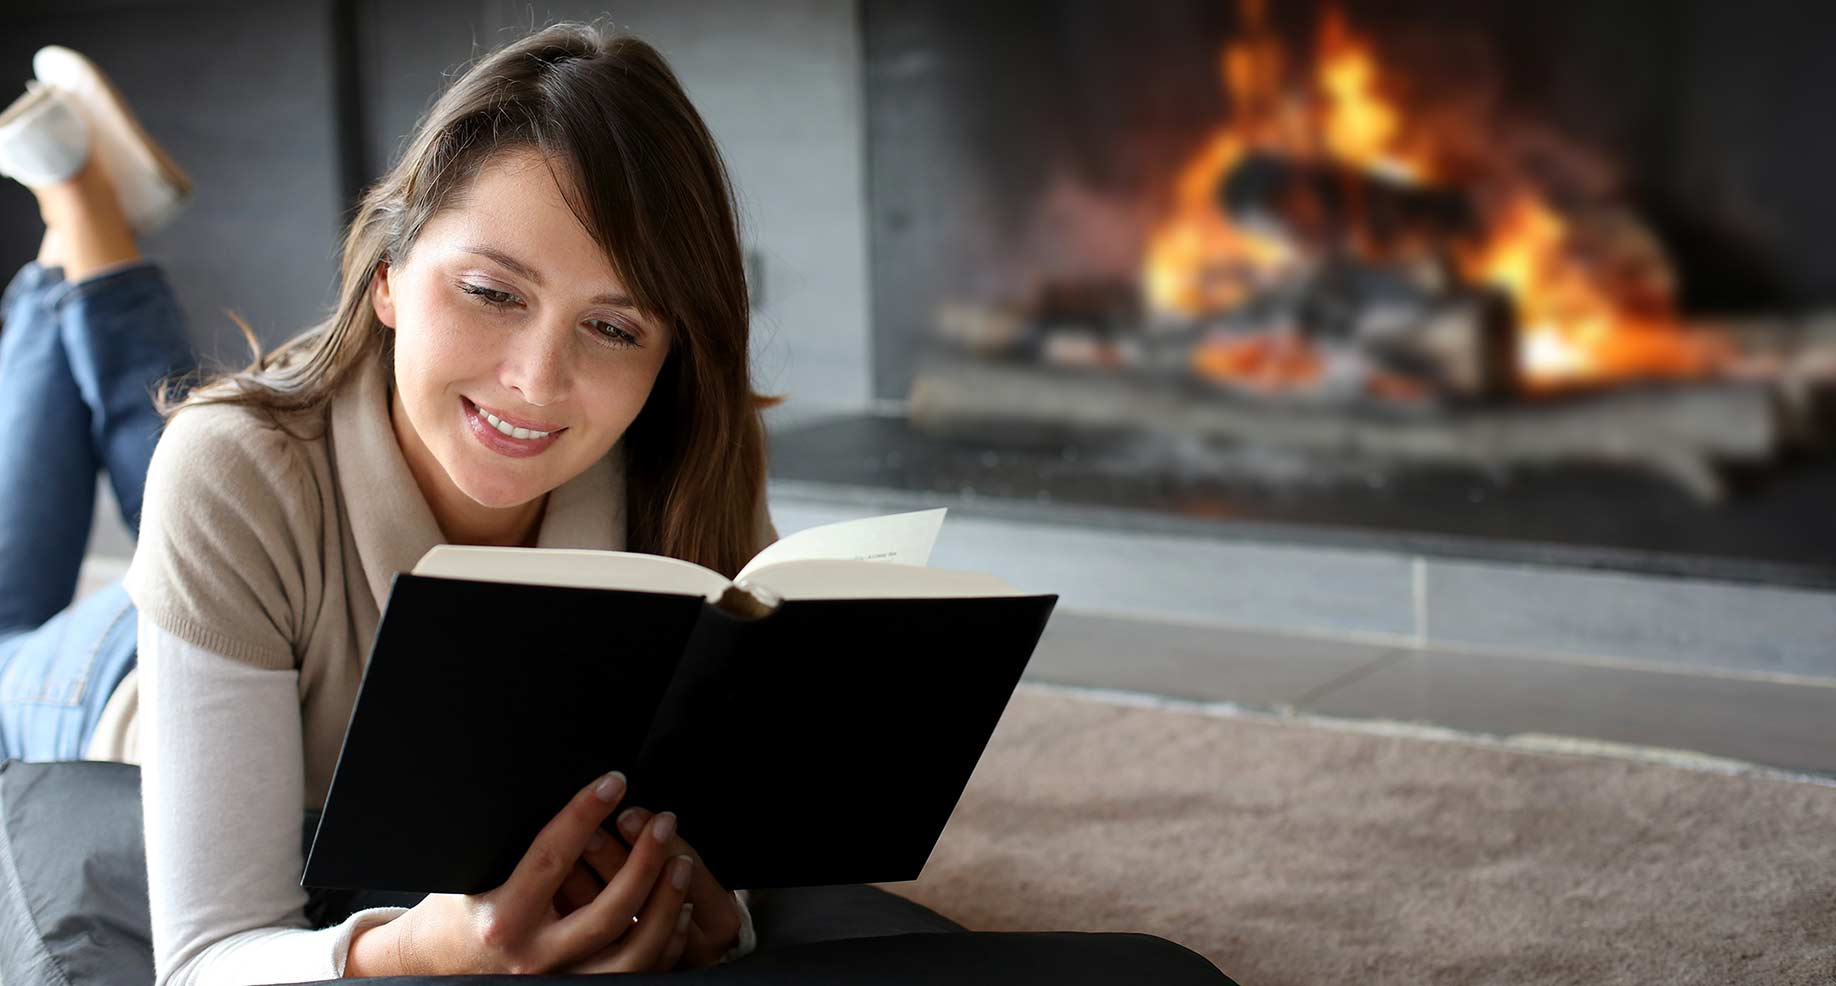
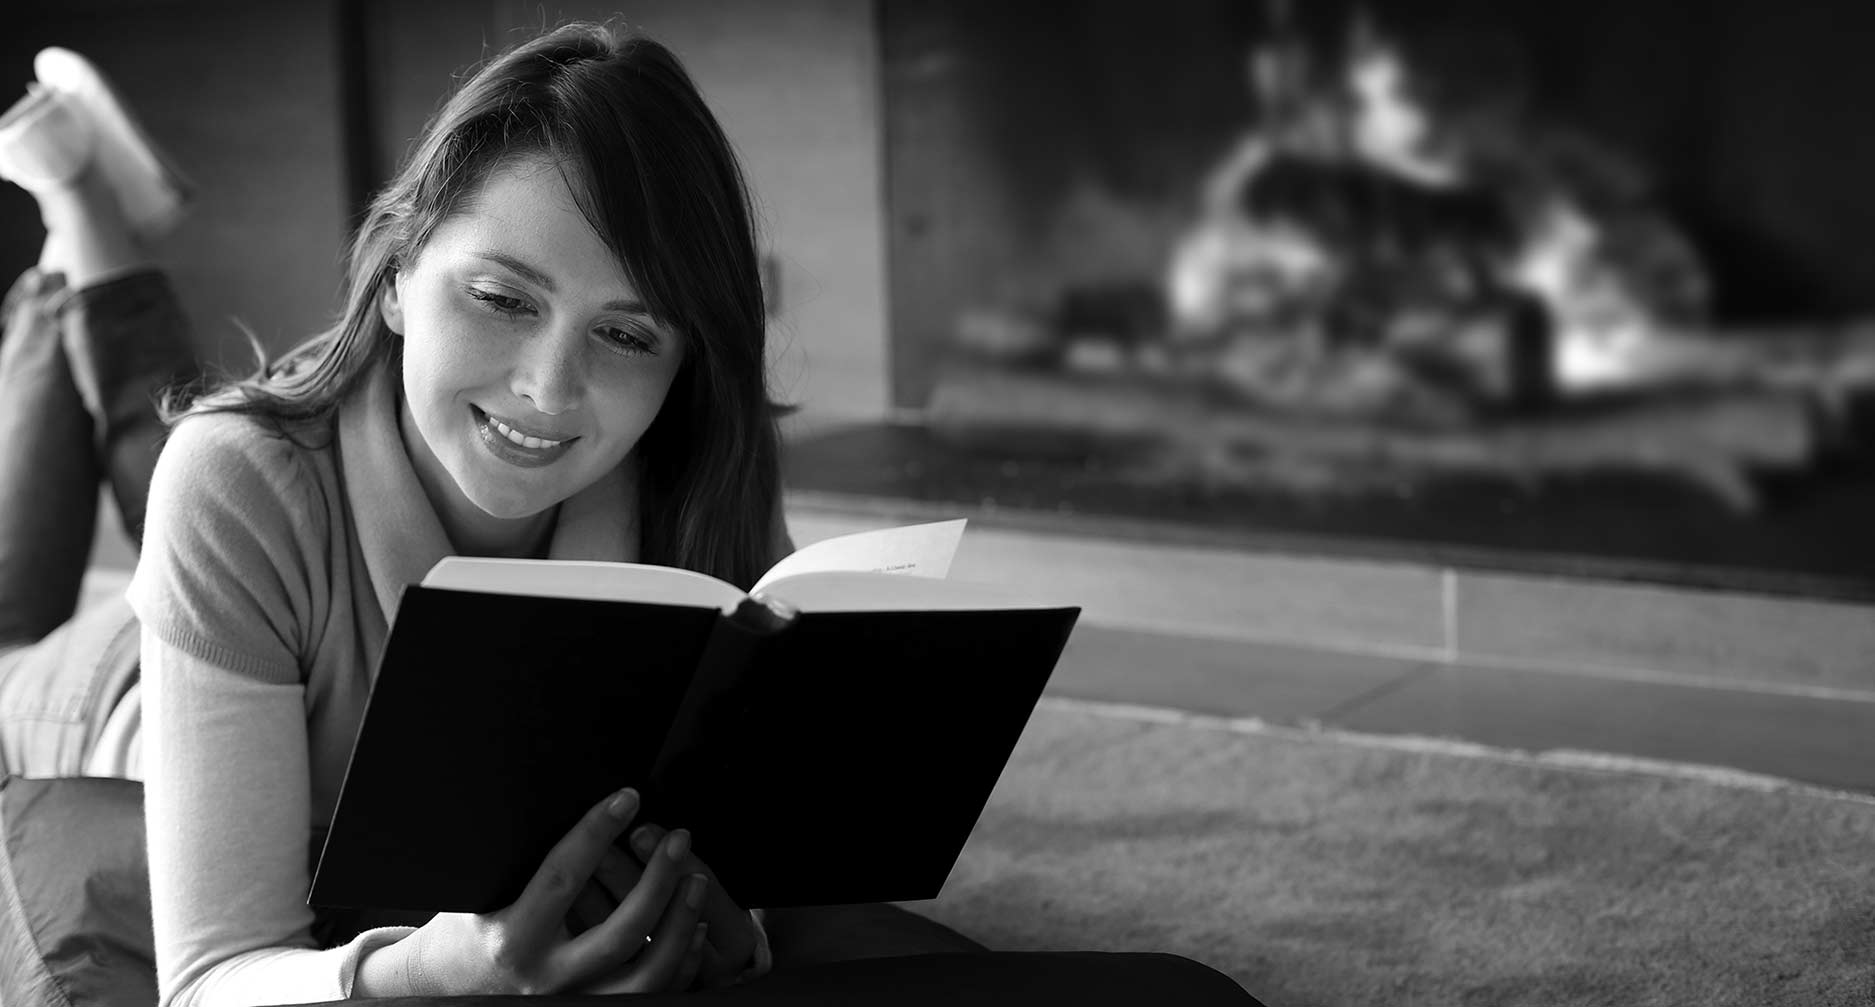
finished with hero images
I HOPE!

diff --git a/css/styles.css b/css/styles.css
@@ -142,7 +142,7 @@ form {
       }
 	  
 	     #our-service-hero {
-        background: url(../images/temp-hero.jpg) #D7E8F1;
+        background: url(../images/our-service-hero.jpg) #D7E8F1;
         height: 550px;
         text-align: left;
         position: relative;
